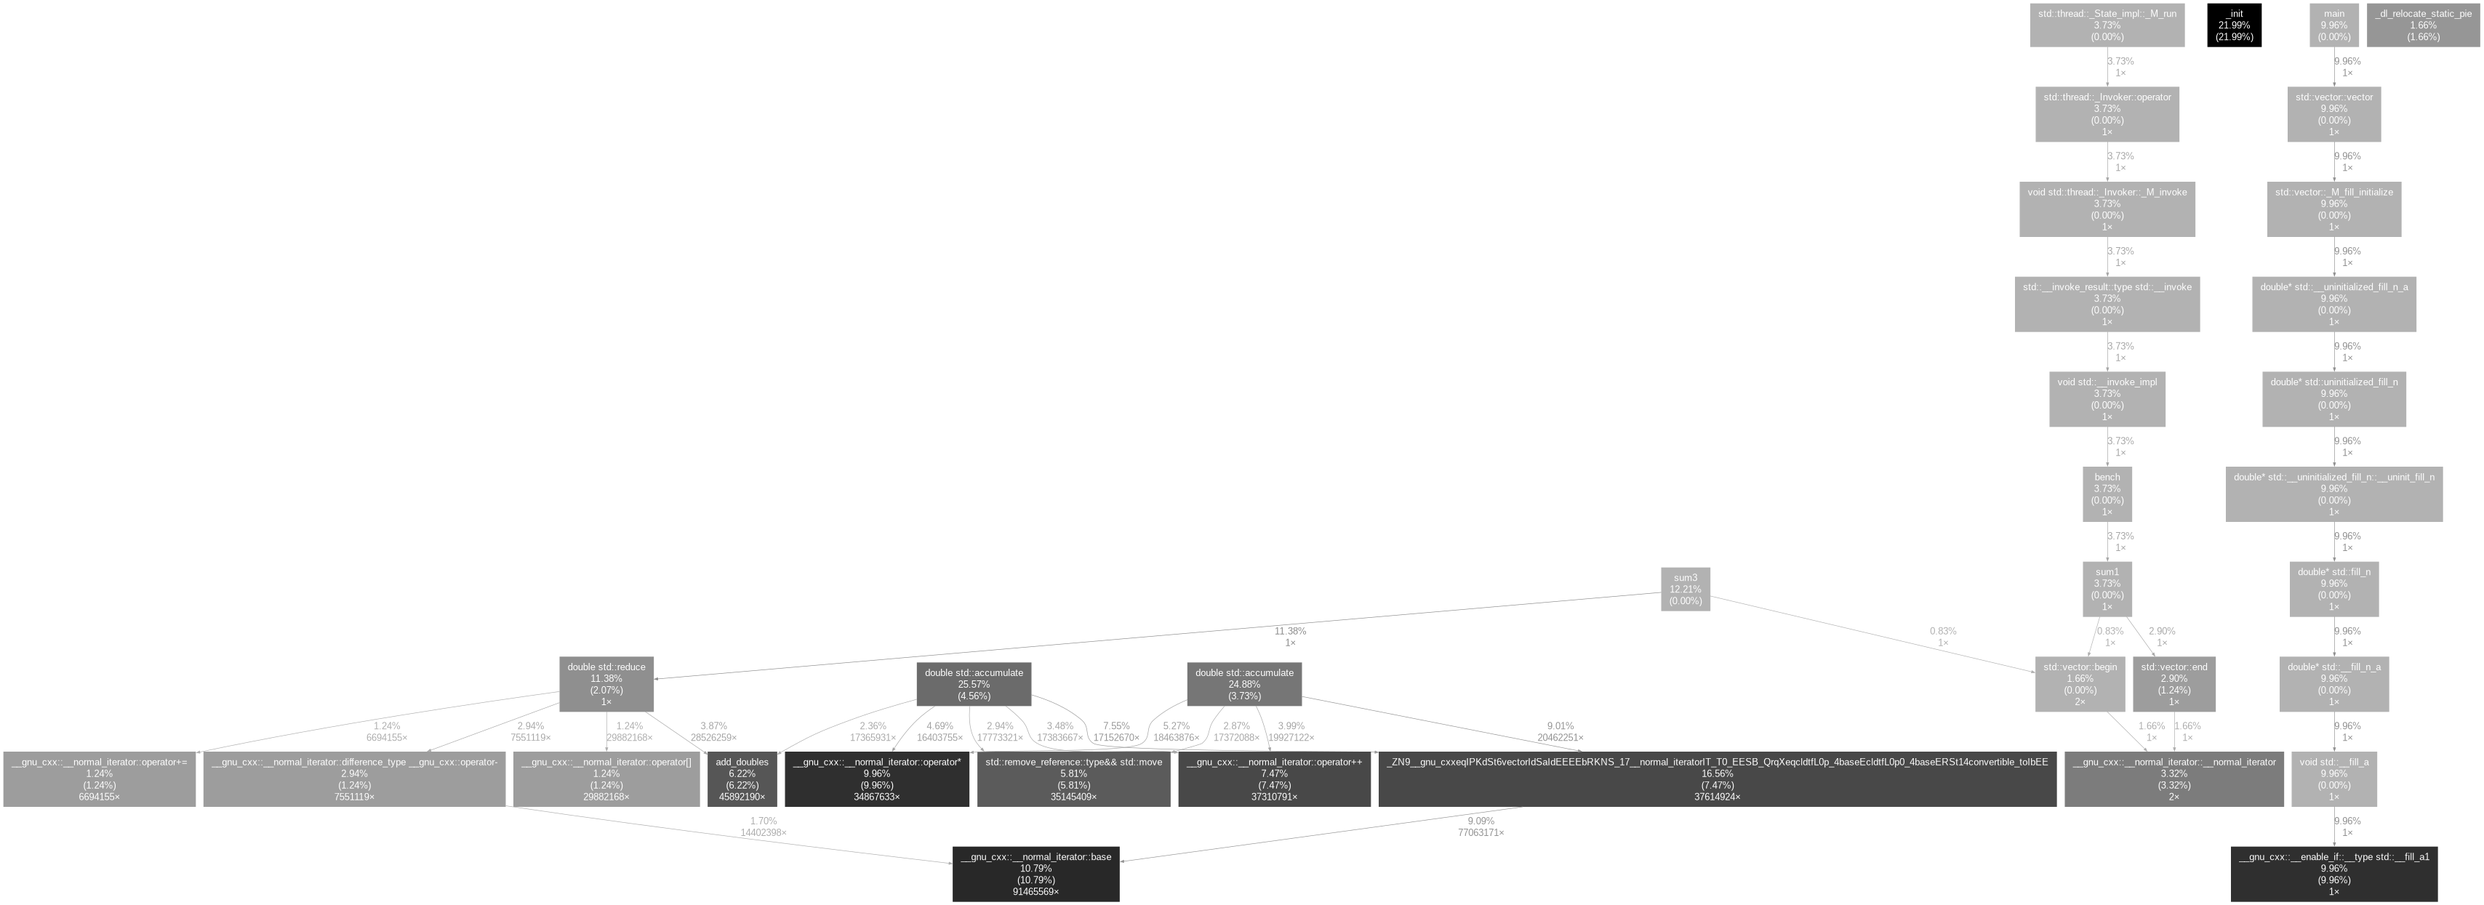
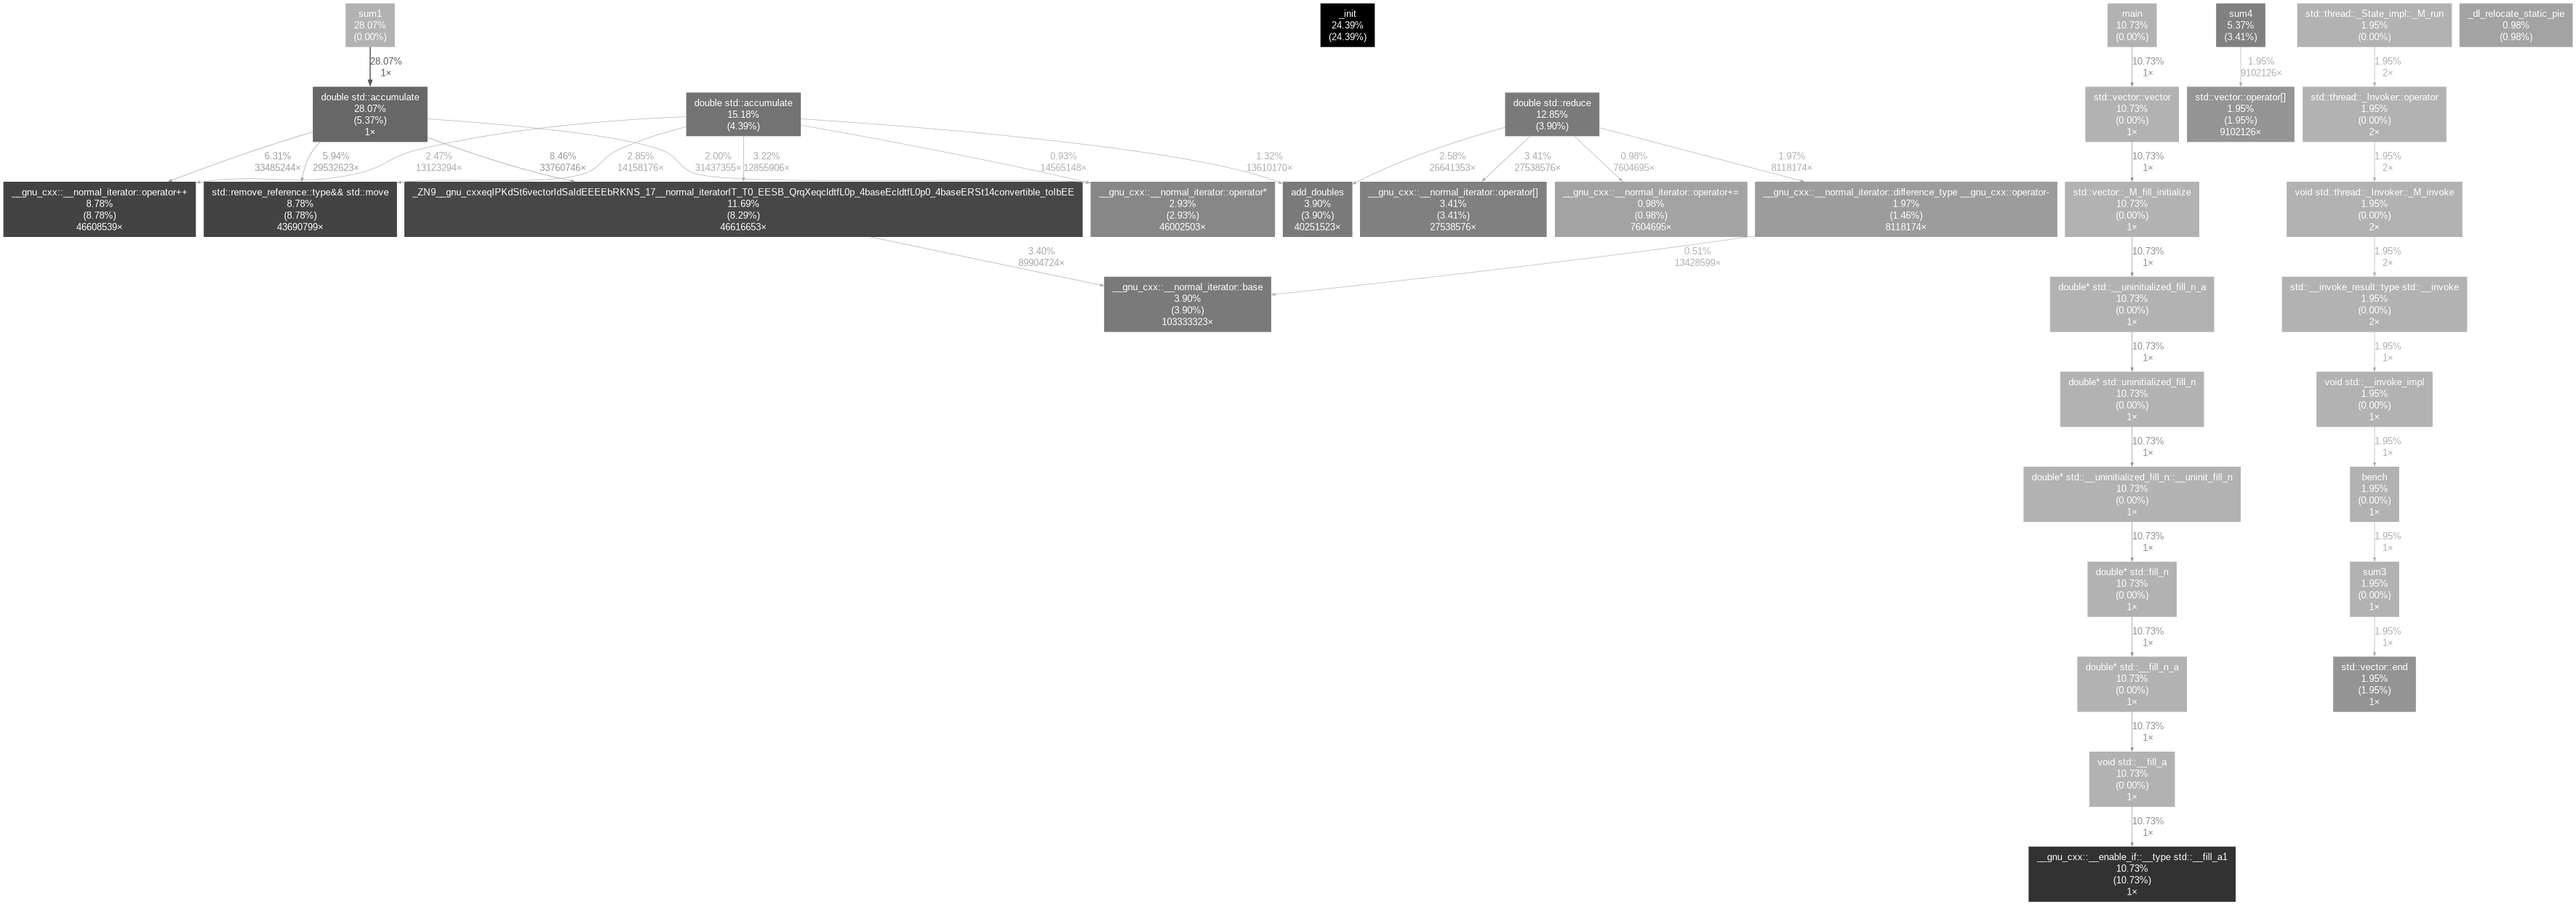
Add sum4 benchmark

diff --git a/main.cpp b/main.cpp
@@ -21,6 +21,15 @@ double sum3(std::vector<double> const &vec) {
   return std::reduce(vec.begin(), vec.end(), 0.0, add_doubles);
 }
 
+double sum4(std::vector<double> const &vec) {
+  double total = 0.0;
+  std::size_t len = vec.size();
+  for (std::size_t i = 0; i < len; ++i) {
+    total += vec[i];
+  }
+  return total;
+}
+
 void bench(
     char const *name,
     double (*func)(std::vector<double> const &),
@@ -38,9 +47,11 @@ int main() {
   //bench("sum1", sum1, values);
   //bench("sum2", sum2, values);
   //bench("sum3", sum3, values);
+  //bench("sum4", sum4, values);
 
   // multi-threaded
-  std::jthread t1(bench, "sum1", std::ref(sum1), std::ref(values));
-  std::jthread t2(bench, "sum2", std::ref(sum2), std::ref(values));
-  std::jthread t3(bench, "sum3", std::ref(sum3), std::ref(values));
+  std::jthread t1(bench, "sum1", &sum1, std::ref(values));
+  std::jthread t2(bench, "sum2", &sum2, std::ref(values));
+  std::jthread t3(bench, "sum3", &sum3, std::ref(values));
+  std::jthread t4(bench, "sum4", &sum4, std::ref(values));
 }
